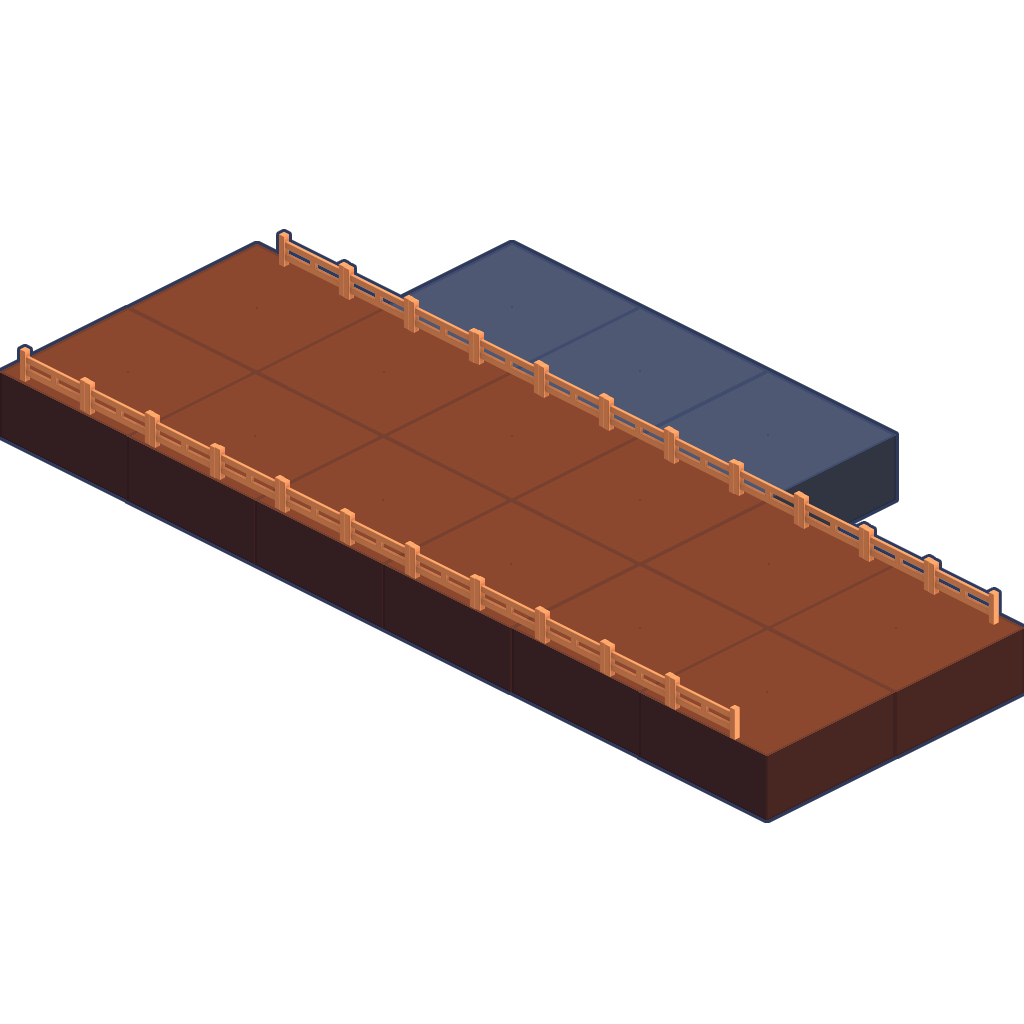
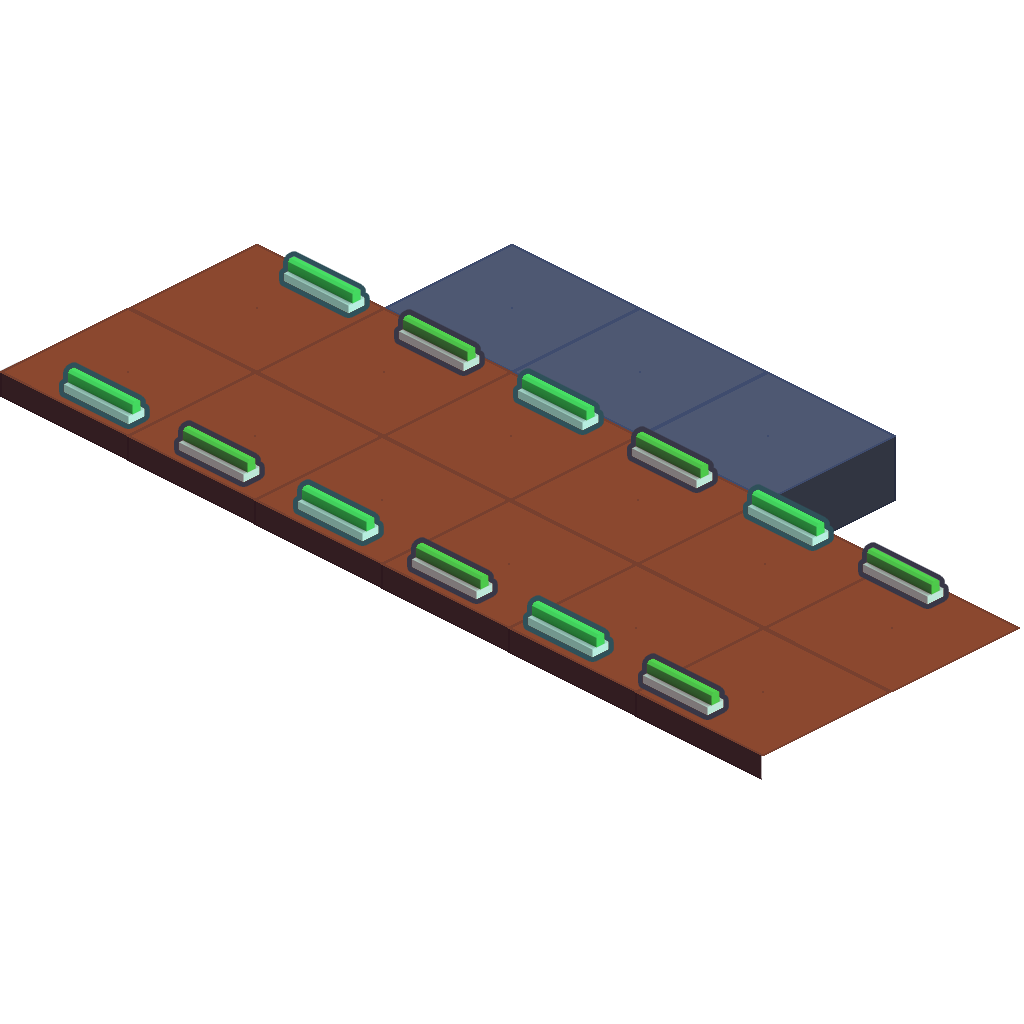
fixed road side graphics

diff --git a/src/scenes/GameScene.ts b/src/scenes/GameScene.ts
@@ -609,7 +609,7 @@ export class GameScene extends Container implements IScene {
 			var gameObject = this.lampTopGameObjects.find(x => x.isAnimating == false);
 
 			if (gameObject) {
-				gameObject.setPosition((gameObject.width * -1), (gameObject.height * -1) - 276);
+				gameObject.setPosition((gameObject.width * -1), (gameObject.height * -1) - 280);
 				gameObject.enableRendering();
 				this.lampPopDelayTop = this.lampPopDelayDefault;
 			}
@@ -637,7 +637,7 @@ export class GameScene extends Container implements IScene {
 
 	//#region SideWalks
 
-	private sideWalkXyAdjustment: number = 190;
+	private sideWalkXyAdjustment: number = 192;
 
 	private sideWalkWidth: number = 750;
 	private sideWalkHeight: number = 750;
@@ -2290,7 +2290,7 @@ export class GameScene extends Container implements IScene {
 			this.levelUp();
 
 			SoundManager.stop(SoundType.BOSS_BACKGROUND_MUSIC);
-			SoundManager.play(SoundType.GAME_BACKGROUND_MUSIC);			
+			SoundManager.play(SoundType.GAME_BACKGROUND_MUSIC);
 		}
 	}
 
@@ -2526,7 +2526,7 @@ export class GameScene extends Container implements IScene {
 			SoundManager.stop(SoundType.BOSS_BACKGROUND_MUSIC);
 			SoundManager.play(SoundType.GAME_BACKGROUND_MUSIC);
 			SoundManager.play(SoundType.UFO_BOSS_DEAD);
-			SoundManager.stop(SoundType.UFO_BOSS_HOVERING);			
+			SoundManager.stop(SoundType.UFO_BOSS_HOVERING);
 		}
 	}
 

diff --git a/src/objects/VehicleEnemy.ts b/src/objects/VehicleEnemy.ts
@@ -38,7 +38,7 @@ export class VehicleEnemy extends VehicleBase {
 		if (this.willHonk) {
 			this.health = this.hitPoint * Constants.getRandomNumber(0, 1);
 			this.setHonkDelay();
-			this.setDillyDallySpeed(Constants.getRandomNumber(0.1, 0.3));
+			this.setDillyDallySpeed(Constants.getRandomNumber(0.1, 0.2));
 		}
 	}
 
